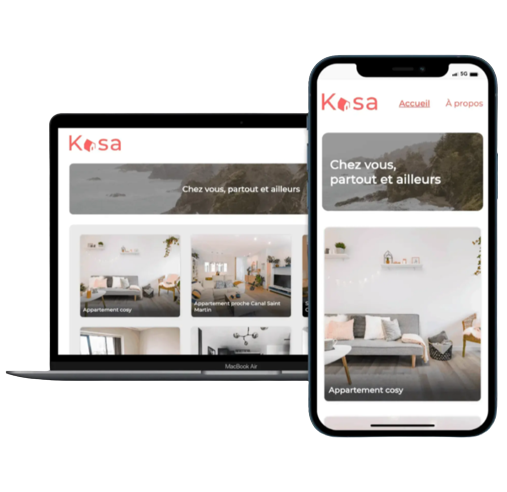
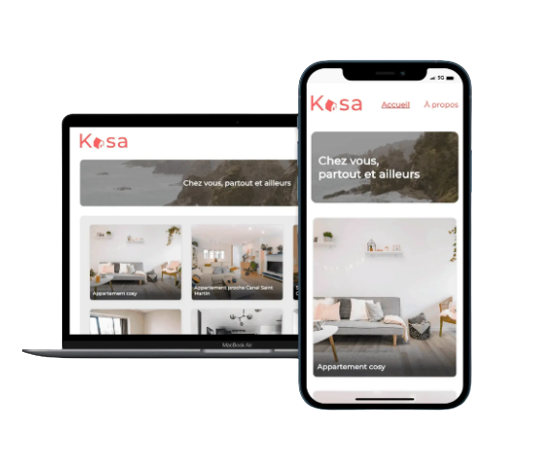
modification style

Changed region(s): [[0.0, 0.0899, 1.0, 0.8994]]

diff --git a/src/styles/components/_introduction.css b/src/styles/components/_introduction.css
@@ -1,5 +1,5 @@
 .introduction__section {
-    height: 100vh;
+    /* height: 100vh; */
     display: flex;
     flex-direction: column;
     align-items: center;
@@ -8,27 +8,15 @@
 .title__introduction {
     font-size: 50px;
     margin-top: 50px;
-    font-weight: 300;
-}
-
-.back__title__introduction {
-    font-size: 120px;
-    position: absolute;
-    left: 0;
-    right: 0;
-    text-align: center;
-    top: 20%;
-    z-index: 0;
-    opacity: 0.1;
-    font-weight: 700;
-    color: black;
+    font-weight: 500;
+    text-shadow: -15px 15px 10px black;
 }
 
 .content__introduction {
     display: flex;
     justify-content: space-around;
     align-items: center;
-    margin-top: 100px;
+    margin: 75px 0;
 }
 
 .memoji {
@@ -44,4 +32,10 @@
 .presentation__link {
     color: greenyellow;
     text-decoration: underline greenyellow;
+}
+
+@media all and (max-width: 1100px) {
+    .content__introduction {
+        flex-direction: column;
+    }
 }

diff --git a/src/styles/components/_imageSlider.css b/src/styles/components/_imageSlider.css
@@ -4,12 +4,11 @@
 }
 
 .slideStyles {
-    width: 80%;
     height: 100%;
     border-radius: 10px;
     margin: auto;
-    /* background-position: center;
-    background-size: cover; */
+    background-position: center;
+    background-size: cover;
 }
 
 .container {
@@ -20,7 +19,7 @@
 .containerStyles {
     width: 50%;
     height: 475px;
-    margin: 55px 0 15px 0;
+    margin: 75px 0;
 }
 
 .leftArrowStyles {
@@ -32,6 +31,7 @@
     color: #fff;
     z-index: 1;
     cursor: pointer;
+    background-color: none;
 }
 
 .rightArrowStyles {
@@ -43,18 +43,8 @@
     color: #fff;
     z-index: 1;
     cursor: pointer;
+    background-color: none;
 }
-
-/* .dotsContainerStylestwo {
-    display: flex;
-    justify-content: center;
-}
-
-.dotStyletwo {
-    margin: 0 3px;
-    cursor: pointer;
-    font-size: 20px;
-} */
 
 .content__slide {
     position: absolute;

diff --git a/src/styles/components/_skills.css b/src/styles/components/_skills.css
@@ -1,5 +1,5 @@
 .skills__section {
-    height: 100vh;
+    /* height: 100vh; */
     background-color: #232140;
     display: flex;
     flex-direction: column;
@@ -9,21 +9,9 @@
 .title__skills {
     font-size: 50px;
     margin-top: 50px;
-    font-weight: 300;
+    font-weight: 500;
+    text-shadow: -15px 15px 10px black;
     background-color: #232140;
-}
-
-.back__title__skills {
-    font-size: 120px;
-    position: absolute;
-    left: 0;
-    right: 0;
-    text-align: center;
-    top: 40%;
-    z-index: 0;
-    opacity: 0.1;
-    font-weight: 700;
-    color: black;
 }
 
 .skills__grid {
@@ -32,7 +20,7 @@
     justify-content: space-evenly;
     align-content: center;
     background-color: #232140;
-    margin-top: 50px;
+    margin: 75px 0;
 }
 
 .skill {

diff --git a/src/styles/components/_work.css b/src/styles/components/_work.css
@@ -1,5 +1,5 @@
 .work__section {
-    height: 100vh;
+    /* height: 100vh; */
     display: flex;
     flex-direction: column;
     align-items: center
@@ -8,27 +8,15 @@
 .title__work {
     font-size: 50px;
     margin-top: 50px;
-    font-weight: 300;
-    background-color: #232140;
-}
-
-.back__title__work {
-    font-size: 120px;
-    position: absolute;
-    left: 0;
-    right: 0;
-    text-align: center;
-    top: 60%;
-    z-index: 0;
-    opacity: 0.1;
-    font-weight: 700;
-    color: black;
+    font-weight: 500;
+    text-shadow: -15px 15px 10px black;
 }
 
 .container__projects {
     display: flex;
     justify-content: space-evenly;
     flex-wrap: wrap;
+    margin: 75px 0;
 }
 
 .card__projects {

diff --git a/src/styles/components/_contact.css b/src/styles/components/_contact.css
@@ -1,5 +1,5 @@
 .contact__section {
-    height: 100vh;
+    /* height: 100vh; */
     background-color: #232140;
     display: flex;
     flex-direction: column;
@@ -9,21 +9,9 @@
 .title__contact {
     font-size: 50px;
     margin-top: 50px;
-    font-weight: 300;
+    font-weight: 500;
+    text-shadow: -15px 15px 10px black;
     background-color: #232140;
-}
-
-.back__title__contact {
-    font-size: 120px;
-    position: absolute;
-    left: 0;
-    right: 0;
-    text-align: center;
-    top: 80%;
-    z-index: 0;
-    opacity: 0.1;
-    font-weight: 700;
-    color: black;
 }
 
 /* CONTACT FORM */

diff --git a/src/styles/components/_homeSection.css b/src/styles/components/_homeSection.css
@@ -11,20 +11,7 @@
     font-size: 100px;
     font-weight: 500;
     background-color: #232140;
-    text-shadow: -15px 15px black;
-}
-
-.back__title__home__section {
-    font-size: 120px;
-    position: absolute;
-    left: 0;
-    right: 0;
-    text-align: center;
-    top: 5%;
-    z-index: 0;
-    opacity: 0.1;
-    font-weight: 700;
-    color: black;
+    text-shadow: -15px 15px 10px black;
 }
 
 .subtitle__home__section {

diff --git a/src/components/Contact.jsx b/src/components/Contact.jsx
@@ -108,8 +108,7 @@ const Contact = () => {
   return (
     <div className="contact__section" id="contact">
     <h2 className="title__contact">
-      Travaillons ensemble
-      <span className="back__title__contact">Contactez moi</span>
+      Contactez-moi
     </h2>
       <form className='contact__form' ref={form} onSubmit={handleSubmit}>
         <div className="smallInput__container">

diff --git a/src/components/Introduction.jsx b/src/components/Introduction.jsx
@@ -6,7 +6,6 @@ const Introduction = () => {
     <div className="introduction__section" id="introduction">
       <h2 className="title__introduction">
         A propos de moi
-        <span className="back__title__introduction"> Qui suis-je ?</span>
       </h2>
       <div className="content__introduction">
         <img src={memoji} alt="" className="memoji" />

diff --git a/src/components/HomeSection.jsx b/src/components/HomeSection.jsx
@@ -7,7 +7,6 @@ const HomeSection = () => {
       <BackgroundHomeSection />
       <h1 className="title__home__section">
         Emilien <br/> Gerbouin
-        {/* <span className="back__title__home__section">Gerbouin <br/> Emilien</span> */}
       </h1>
       <h2 className="subtitle__home__section">Passionné par la création d'interfaces utilisateurs</h2>
 

diff --git a/src/components/Skills.jsx b/src/components/Skills.jsx
@@ -12,7 +12,6 @@ const Skills = () => {
     <div className="skills__section" id="skills">
       <h2 className="title__skills">
         Compétences
-        <span className="back__title__skills"> Techniques</span>
       </h2>
       <div className="skills__grid">
         <div class="html__skill skill flip-card">

diff --git a/src/components/Work.jsx b/src/components/Work.jsx
@@ -30,7 +30,6 @@ const Work = () => {
     <div className="work__section" id="work">
     <h2 className="title__work">
       Projets
-      <span className="back__title__work">Travaux</span>
     </h2>
     <div className="containerStyles">
         <ImageSlider slides={slides} />

diff --git a/src/styles/_settings.css b/src/styles/_settings.css
@@ -10,8 +10,12 @@
     font-family: "roboto", sans-serif;
 }
 
-p {
-    cursor: pointer;
+p,
+h1,
+h2,
+h3,
+h4 {
+    cursor: context-menu;
 }
 
 .page {
